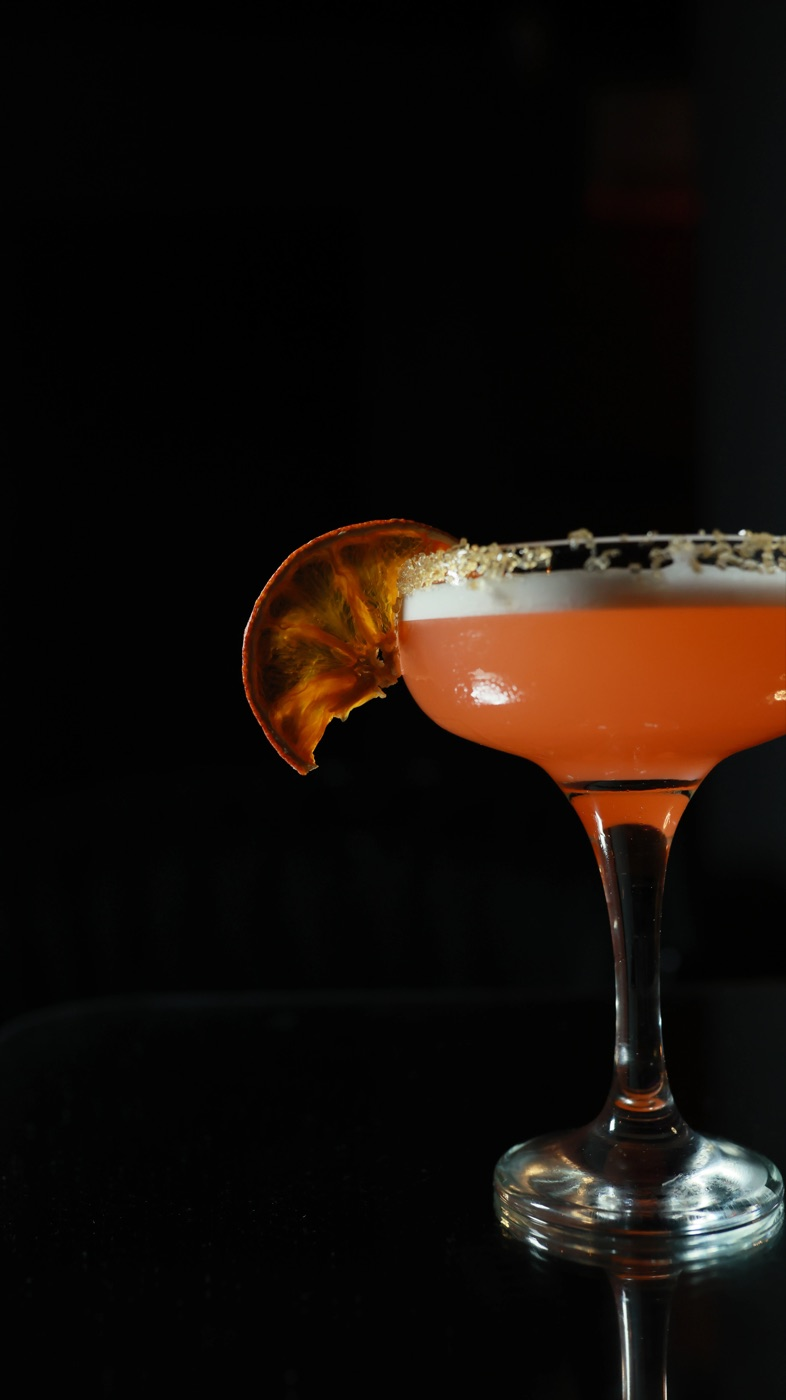
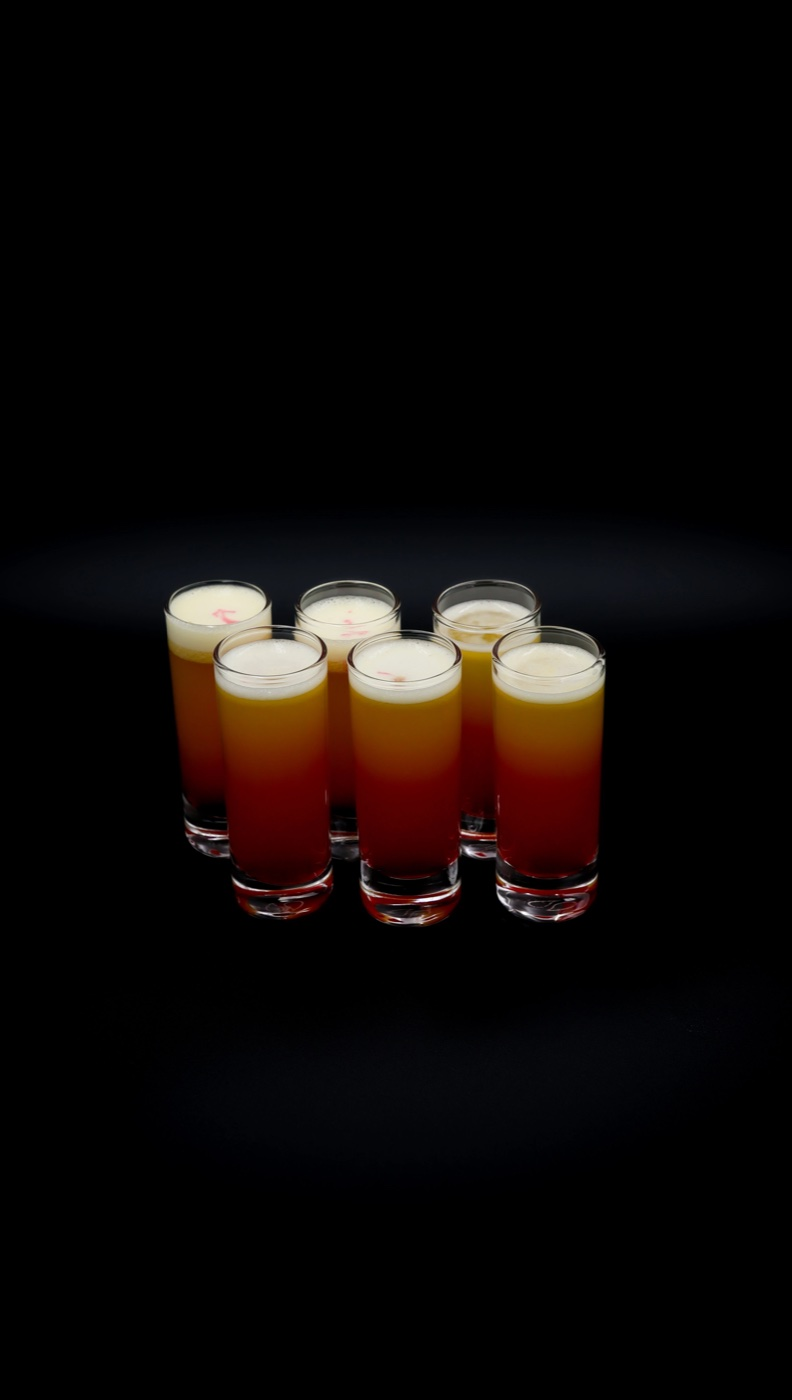
Fix admin photo upload on Vercel; menu cleanup
- upload: serverless filesystem is read-only, so fall back to storing bytes in
  the DB (served from /api/uploads/[id]) when Vercel Blob isn't configured
- Cigar: same add-ons as the other shishas
- Bee's Knees moved to classic cocktails; A Perfect Day removed
- single shots: no photos; Balance Shot Set: correct photo (6 shots)
- Bezalkoholowe: keep Piña Colada / Green Fizz / Bumble Balance, add Paradise,
  Deep Harmony, Mojito Zero
- sync: an empty image in the source now clears the photo

Changed region(s): [[0.1832, 0.3686, 1.0, 1.0]]

diff --git a/src/app/api/admin/upload/route.ts b/src/app/api/admin/upload/route.ts
@@ -3,6 +3,7 @@ import { writeFile, mkdir } from "fs/promises";
 import path from "path";
 import { put } from "@vercel/blob";
 import { requireOwner } from "@/lib/adminGuard";
+import { prisma } from "@/lib/db";
 
 export async function POST(req: Request) {
   const denied = await requireOwner();
@@ -16,7 +17,7 @@ export async function POST(req: Request) {
   const ext = (file.name.split(".").pop() || "jpg").toLowerCase().replace(/[^a-z0-9]/g, "");
   const filename = `${Date.now()}-${Math.random().toString(36).slice(2, 8)}.${ext}`;
 
-  // Production: Vercel Blob (persistent). Local dev without a token: write to public/uploads.
+  // 1) Vercel Blob when configured (best: CDN-served, keeps the DB small).
   if (process.env.BLOB_READ_WRITE_TOKEN) {
     const blob = await put(`uploads/${filename}`, file, {
       access: "public",
@@ -26,6 +27,18 @@ export async function POST(req: Request) {
   }
 
   const bytes = Buffer.from(await file.arrayBuffer());
+
+  // 2) Serverless (Vercel) has a read-only filesystem — store the bytes in the
+  //    database instead and serve them from /api/uploads/[id].
+  if (process.env.VERCEL) {
+    const id = filename.replace(/\.[a-z0-9]+$/, "");
+    await prisma.upload.create({
+      data: { id, mime: file.type || `image/${ext === "jpg" ? "jpeg" : ext}`, data: bytes },
+    });
+    return NextResponse.json({ ok: true, url: `/api/uploads/${id}` });
+  }
+
+  // 3) Local dev: plain file in public/uploads.
   const dir = path.join(process.cwd(), "public", "uploads");
   await mkdir(dir, { recursive: true });
   await writeFile(path.join(dir, filename), bytes);

diff --git a/prisma/seedData.ts b/prisma/seedData.ts
@@ -228,6 +228,11 @@ const REMOVED_ITEMS: { slug: string; name: string }[] = [
   { slug: "herbaty-autorskie", name: "Golden Spice  Gruszka – karmel – przyprawy" },
   { slug: "herbaty-autorskie", name: "Mango Heat  Mango – imbir – limonka" },
   { slug: "napoje-zimne", name: "Borjomi" },
+  { slug: "signature-cocktails", name: "A Perfect Day" },
+  { slug: "signature-cocktails", name: "Bee’s Knees" }, // moved to classic-cocktails
+  { slug: "balance-zero----bezalkoholowe", name: "Berry Fizz" },
+  { slug: "balance-zero----bezalkoholowe", name: "Apple Ginger" },
+  { slug: "balance-zero----bezalkoholowe", name: "Raspberry Passion" },
 ];
 
 export async function syncMenu(prisma: PrismaClient): Promise<void> {
@@ -291,7 +296,8 @@ export async function syncMenu(prisma: PrismaClient): Promise<void> {
         // new/changed image or add-on in choiceDataI18n.json goes live on deploy.
         // Description is only backfilled when empty (never overwrites admin text/prices).
         const patch: { photo?: string; description?: string; options?: string; order?: number } = {};
-        if (item.image && cur.photo !== item.image) patch.photo = item.image;
+        // An explicit "" in the source clears the photo (e.g. single shots).
+        if (item.image !== undefined && cur.photo !== item.image) patch.photo = item.image;
         if (!namePl(cur.description) && item.descI18n?.pl) patch.description = J(item.descI18n);
         const srcOptions = JSON.stringify(item.optionsI18n ?? []);
         if (cur.options !== srcOptions) patch.options = srcOptions;

diff --git a/src/app/api/uploads/[id]/route.ts b/src/app/api/uploads/[id]/route.ts
@@ -1,0 +1,16 @@
+import { NextResponse } from "next/server";
+import { prisma } from "@/lib/db";
+
+// Serves images stored in the database (see /api/admin/upload). Content is
+// immutable — the id is unique per upload — so it can be cached hard.
+export async function GET(_req: Request, { params }: { params: { id: string } }) {
+  const row = await prisma.upload.findUnique({ where: { id: params.id } });
+  if (!row) return NextResponse.json({ error: "not_found" }, { status: 404 });
+
+  return new NextResponse(new Uint8Array(row.data), {
+    headers: {
+      "Content-Type": row.mime || "application/octet-stream",
+      "Cache-Control": "public, max-age=31536000, immutable",
+    },
+  });
+}
